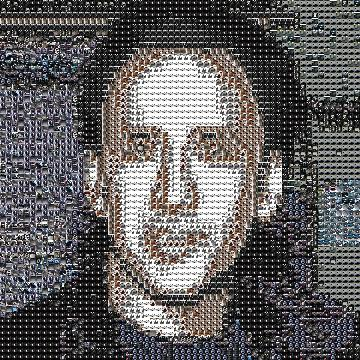
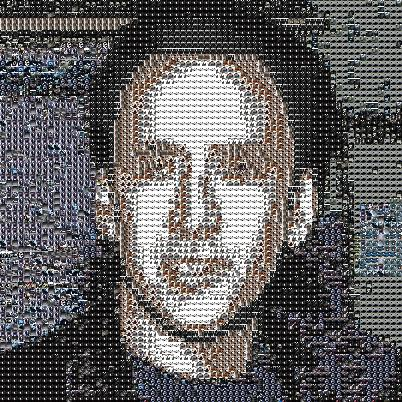
size bug fixed. new pics

diff --git a/src/python_image_mosaic.py b/src/python_image_mosaic.py
@@ -66,8 +66,8 @@ class image_mosiac():
         rounds that number off to a whole number and creates an optiumum size 
         which is then used to resize the original image (maintaining original aspect ratio)
         """
-        xdiv = int(np_image.shape[1]/self.tile_max_px)
-        ydiv = int(np_image.shape[0]/self.tile_max_px)
+        xdiv = (np_image.shape[1]/self.tile_max_px)
+        ydiv = (np_image.shape[0]/self.tile_max_px)
 
         adjustScalex = int(self.tile_max_px * xdiv)
         adjustScaley = int(self.tile_max_px * ydiv)
